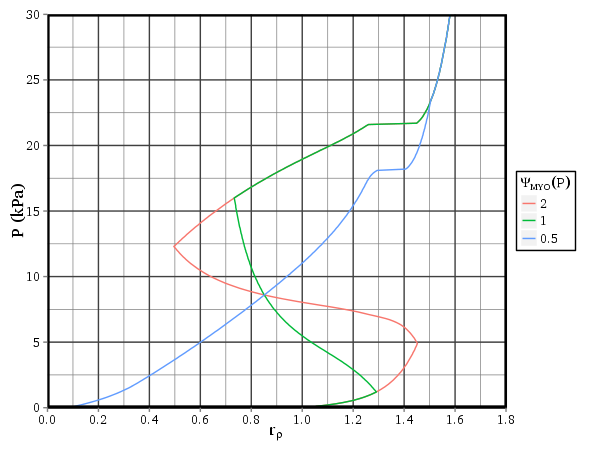
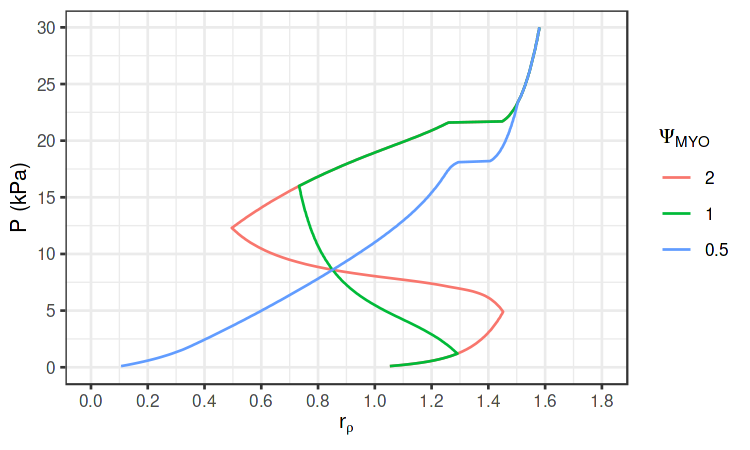
Update afferent arteriole model figures

Changed region(s): [[0.0, 0.0, 0.99, 0.9644]]

diff --git a/docs/models/aa-autoreg.md b/docs/models/aa-autoreg.md
@@ -88,5 +88,5 @@ Solid lines show net stress \\(\sigma_e + \sigma_a\\) and dashed lines show acti
 
 ![Relationship between transmural pressure and normalised inner radius.](radius.png)
 /// caption
-<strong>Figure 3:</strong> The relationship between transmural pressure \\(P\\) and normalised inner radius \\(r_P\\), for three myogenic responses \\(\Psi_{MYO}(P)\\) with different slopes.
+<strong>Figure 3:</strong> The relationship between transmural pressure \\(P\\) and normalised inner radius \\(r_P\\), for three myogenic responses \\(\Psi_{MYO}\\) with different slopes.
 ///
